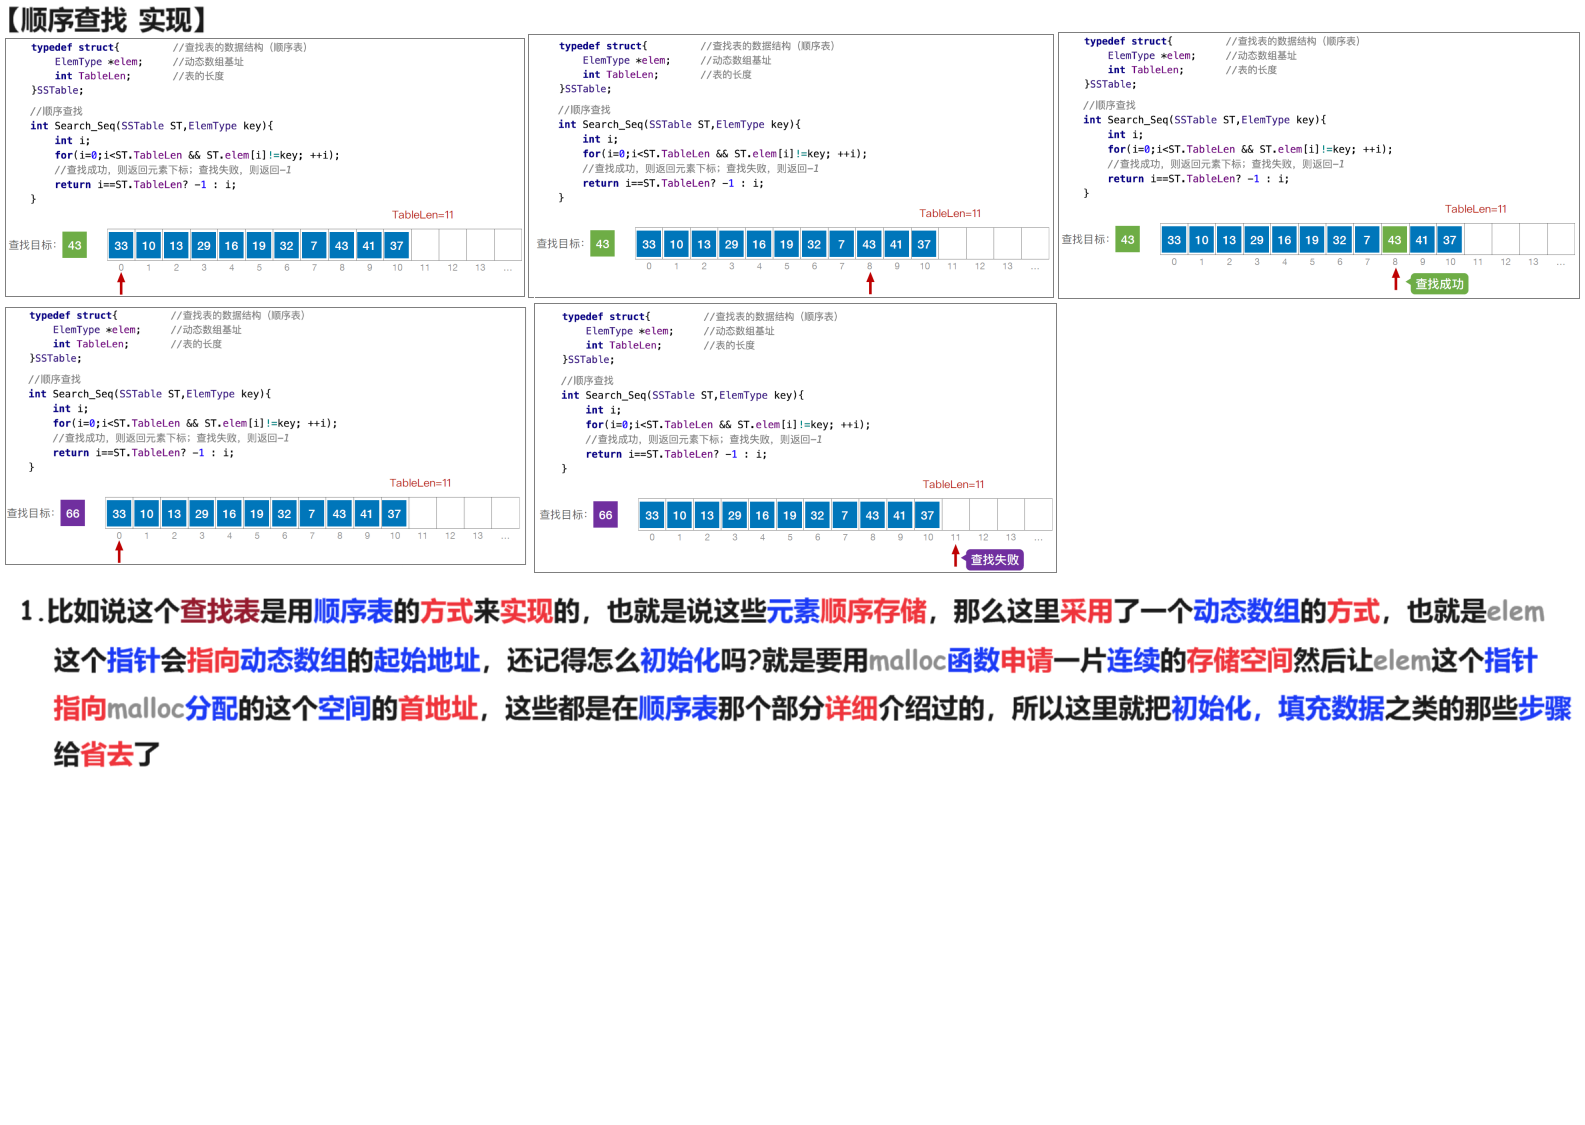
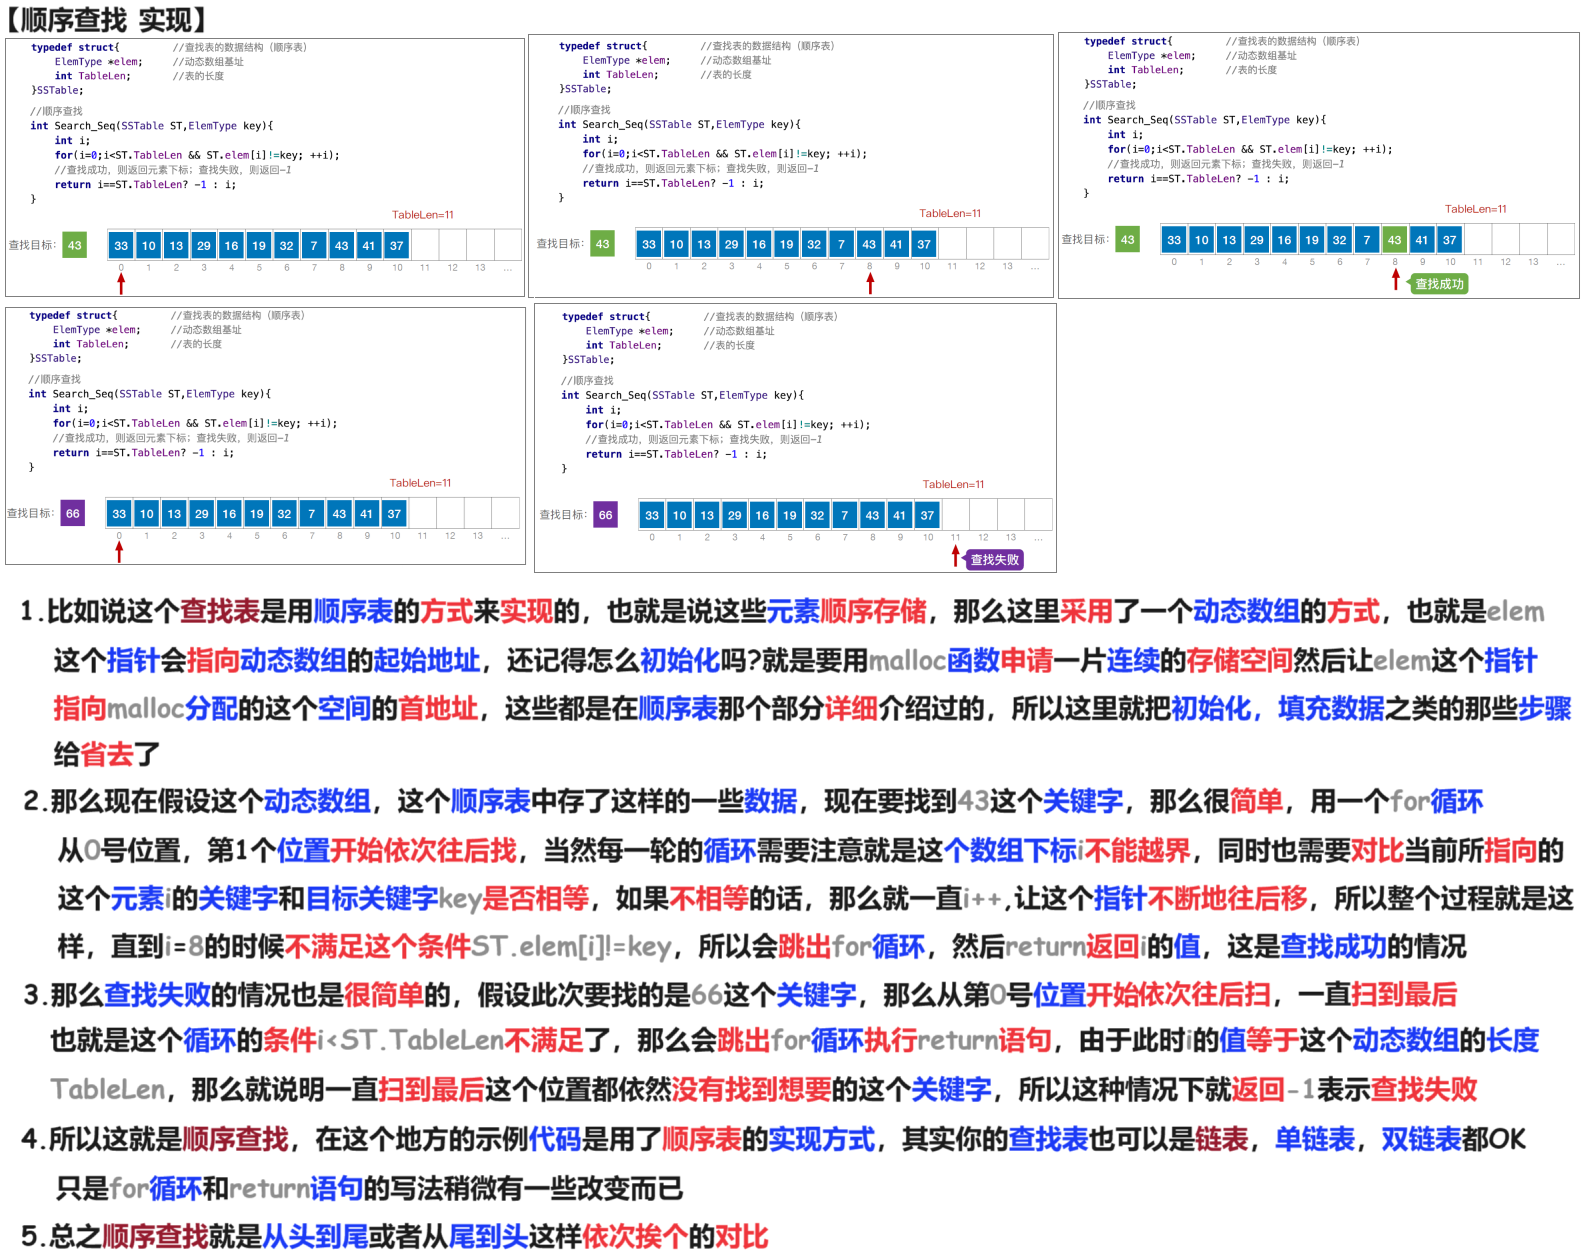
240420

Changed region(s): [[0.0, 0.0, 0.9893, 0.9956]]

diff --git a/01 初试/02 DS/02 24 王道 基础/07 查找/02 顺序查找 折半查找/01 顺序查找 240420/02 Doc.md b/01 初试/02 DS/02 24 王道 基础/07 查找/02 顺序查找 折半查找/01 顺序查找 240420/02 Doc.md
@@ -16,3 +16,22 @@
 
 # 03 顺序查找 实现
 
+<img src="https://cvp.oss-cn-shanghai.aliyuncs.com/picgo/202404201416708.png" alt="image-20240420141606461" style="zoom:50%;" />
+
+
+
+# 04 顺序查找 实现 哨兵
+
+<img src="https://cvp.oss-cn-shanghai.aliyuncs.com/picgo/202404201501113.png" alt="image-20240420150139883" style="zoom:50%;" />
+
+
+
+# 05 顺序查找 查找效率分析
+
+<img src="https://cvp.oss-cn-shanghai.aliyuncs.com/picgo/202404201537975.png" alt="image-20240420153731839" style="zoom:50%;" />
+
+
+
+# 06 顺序查找 优化 有序表
+
+<img src="https://cvp.oss-cn-shanghai.aliyuncs.com/picgo/202404201624256.png" alt="image-20240420162458089" style="zoom:50%;" />
